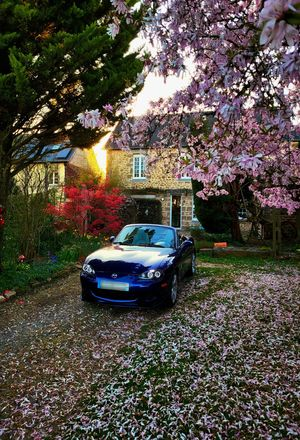
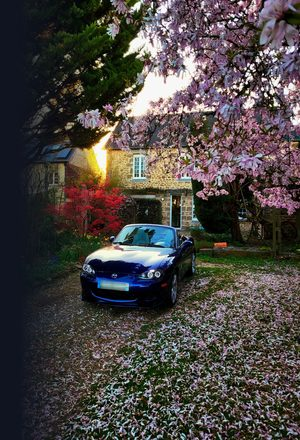
Ajout de vérification d'email valide pour éviter d'avoir des email avec test@test.com

Changed region(s): [[0.0, 0.0, 0.3, 1.0]]

diff --git a/scripts/email.js b/scripts/email.js
@@ -1,27 +1,25 @@
 (function() {
     emailjs.init('A4yA5LwPiHJTO9hxc');
 
-    // Fonction pour afficher un toast
     function showToast(message, type = 'success') {
         const container = document.getElementById('toast-container');
         const toast = document.createElement('div');
         toast.className = `toast toast-${type}`;
-        
+
         let icon = '✓';
         if (type === 'loading') {
             icon = '⟳';
         } else if (type === 'error') {
             icon = '✕';
         }
-        
+
         toast.innerHTML = `
             <div class="toast-icon">${icon}</div>
             <div class="toast-message">${message}</div>
         `;
-        
+
         container.appendChild(toast);
-        
-        // Auto-remove après 4s (sauf pour loading)
+
         if (type !== 'loading') {
             setTimeout(() => {
                 toast.classList.add('fade-out');
@@ -32,60 +30,99 @@
                 }, 400);
             }, 4000);
         }
-        
+
         return toast;
     }
 
-    document.getElementById('contact-form').addEventListener('submit', function (event) {
+    function removeToast(toast) {
+        if (toast && toast.parentNode) {
+            toast.classList.add('fade-out');
+            setTimeout(() => {
+                if (toast.parentNode) {
+                    toast.parentNode.removeChild(toast);
+                }
+            }, 400);
+        }
+    }
+
+    function isValidEmailFormat(email) {
+        const regex = /^[^\s@]+@[^\s@]+\.[^\s@]{2,}$/;
+        return regex.test(email);
+    }
+
+    // Interroge le DNS pour vérifier que le domaine peut recevoir des mails.
+    // On accepte un MX, ou un A en secours (RFC 5321). Si le DNS est
+    // injoignable, on laisse passer pour ne pas bloquer un visiteur légitime.
+    async function domainCanReceiveMail(domain) {
+        async function dnsHasAnswer(type) {
+            const url = 'https://cloudflare-dns.com/dns-query?name='
+                + encodeURIComponent(domain) + '&type=' + type;
+            const res = await fetch(url, { headers: { accept: 'application/dns-json' } });
+            if (!res.ok) {
+                throw new Error('Réponse DNS invalide');
+            }
+            const data = await res.json();
+            return data.Status === 0 && Array.isArray(data.Answer) && data.Answer.length > 0;
+        }
+
+        try {
+            if (await dnsHasAnswer('MX')) {
+                return true;
+            }
+            if (await dnsHasAnswer('A')) {
+                return true;
+            }
+            return false;
+        } catch (err) {
+            console.warn('Vérification DNS impossible, on laisse passer :', err);
+            return true;
+        }
+    }
+
+    document.getElementById('contact-form').addEventListener('submit', async function (event) {
         event.preventDefault();
 
-        // verif honeypot, si rempli : bot
+        // Honeypot : ce champ est caché, seul un bot le remplit.
         const honeypot = document.getElementById('website').value;
         if (honeypot) {
-            console.log('Bot détecté - soumission bloquée');
             this.reset();
             return;
         }
 
-        // Afficher toast "envoi en cours"
+        const email = this.email.value.trim();
+
+        if (!isValidEmailFormat(email)) {
+            showToast('Adresse e-mail invalide. Vérifiez le format.', 'error');
+            return;
+        }
+
+        const checkingToast = showToast('Vérification de l\'adresse...', 'loading');
+        const domain = email.split('@')[1];
+        const domainOk = await domainCanReceiveMail(domain);
+        removeToast(checkingToast);
+
+        if (!domainOk) {
+            showToast('Cette adresse e-mail n\'existe pas. Vérifiez la saisie.', 'error');
+            return;
+        }
+
         const loadingToast = showToast('Envoi en cours...', 'loading');
 
-        // Préparer les paramètres du template
         const templateParams = {
             name: this.name.value,
-            email: this.email.value,
+            email: email,
             message: this.message.value,
-            reply_to: this.email.value
+            reply_to: email
         };
 
-        // si honeypot vide : humain -> envoi email
         emailjs.send('service_iqs4i5t', 'template_vcdkvbj', templateParams)
             .then(() => {
-                // Supprimer le toast loading
-                if (loadingToast.parentNode) {
-                    loadingToast.classList.add('fade-out');
-                    setTimeout(() => {
-                        if (loadingToast.parentNode) {
-                            loadingToast.parentNode.removeChild(loadingToast);
-                        }
-                    }, 400);
-                }
-                
-                // Afficher toast succès
+                removeToast(loadingToast);
                 showToast('E-mail envoyé avec succès !', 'success');
-                this.reset(); // reset form après envoi
+                this.reset();
             })
             .catch((err) => {
-                // Supprimer le toast loading
-                if (loadingToast.parentNode) {
-                    loadingToast.classList.add('fade-out');
-                    setTimeout(() => {
-                        if (loadingToast.parentNode) {
-                            loadingToast.parentNode.removeChild(loadingToast);
-                        }
-                    }, 400);
-                }
-                
+                removeToast(loadingToast);
                 console.error('Erreur lors de l\'envoi :', err);
                 showToast('Erreur lors de l\'envoi. Veuillez réessayer.', 'error');
             });
